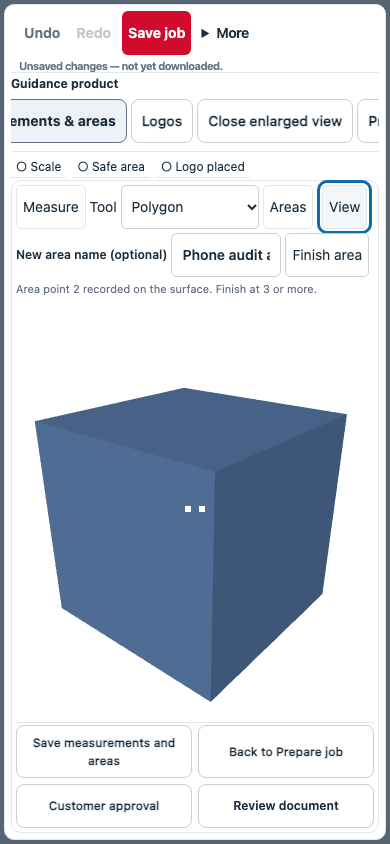
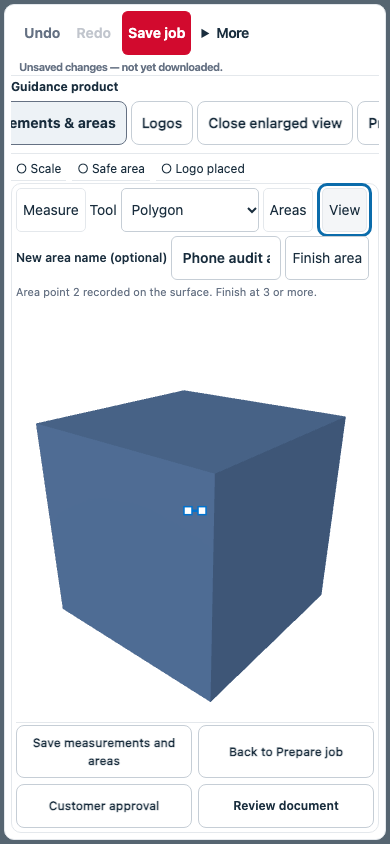
Fix Windows persistence status line-height clipping

diff --git a/src/ui/internal-builder/template.html b/src/ui/internal-builder/template.html
@@ -833,7 +833,7 @@
     .station-header .builder-modes button:disabled { opacity:.4;cursor:default; }
     .station-header [data-builder-hook="job-save"] { border:1px solid var(--red);border-radius:6px;background:#fff;color:var(--red);padding:8px 12px; }
     .station-header [data-builder-hook="job-save"].is-dirty { background:var(--red);color:#fff; }
-    .station-header .job-persistence { flex:1 1 140px;font-size:11px;max-width:240px; }
+    .station-header .job-persistence { flex:1 1 140px;font-size:11px;line-height:16px;max-width:240px; }
     .station-header .job-file-menu { position:relative;flex:none; }
     .job-file-menu summary { cursor:pointer;padding:10px 4px;font-size:14px; }
     .job-file-menu[open] > .job-file-menu-body { position:absolute;right:0;top:100%;z-index:1050;width:200px;background:#fff;border:1px solid var(--line);box-shadow:0 4px 12px #192d3d26; }
@@ -881,7 +881,7 @@
     }
     .product-editor .model-setup-author-actions { display:flex;flex-wrap:wrap;align-items:center;gap:4px;min-width:0; }
     @media(max-width:700px) {
-      .product-editor .editor-checklist { margin-bottom:2px; }
+      .product-editor .editor-checklist { margin-bottom:0; }
       .product-editor .product-model-footer .product-setup-actions {
         display:grid;grid-template-columns:repeat(2,minmax(0,1fr));align-items:stretch;
       }

diff --git a/docs/windows-triage-2026-11-15.md b/docs/windows-triage-2026-11-15.md
@@ -62,9 +62,11 @@ inspection. A software-renderer cause remains unconfirmed.
 
 Three Windows persistence-status tests fail their readable-bounds predicate at
 1440, 768 and 390 px. The predicate checks both viewport bounds and scroll size.
-It needs measured rectangles and client/scroll sizes to distinguish font metrics,
-wrapping, fractional-pixel rounding and real clipping. The original assertions
-remain active.
+The added diagnostics in run `43756262557` record a 13.1875 px line box,
+clientHeight 13 and scrollHeight 14 in all three Edge cases. The computed font
+is 11 px Segoe UI fallback with a 13.2 px line height. The header persistence
+status now uses an integral 16 px line height. Phone checklist spacing preserves
+the canvas floor. The original assertions remain active.
 
 Entry helpers use `pathToFileURL(resolve(...))`, including copied customer and
 station entry points. The hosted Windows offline preflights pass with zero page
@@ -101,3 +103,19 @@ disabled. A local smoke case verified the trace event/snapshot streams and zero
 screencast frames. Renderer records identify SwiftShader on hosted Windows.
 A retained import-readiness trace also contains ReadPixels GPU-stall warnings.
 Those observations leave the underlying timeout cause unresolved.
+
+
+## Completed untraced cohort on `f526aa9`
+
+Run `43756262557` completes all 286 cases per browser with no skips or retries.
+Linux reports 272 passes and 14 failures. Windows Chrome and Edge each report
+230 passes and 56 failures. All nine new customer persistence cases and the canvas
+regression pass in each browser. The exact golden-JSON round trip passes in both
+Windows browsers, confirming the LF fix. All five summary steps succeed.
+
+The three persistence-status cases fail in both Windows browsers with the measured
+line-height shortfall described above. An explicit 16 px line height addresses
+that font-metrics defect while the readability predicate remains intact. Local
+acceptance after this change has 25 Chromium passes and 24 Chrome passes, with
+one Chrome browser closure during phone-audit teardown. That case passes a
+separate one-worker, zero-retry recheck. A final hosted run verifies the font fix.

diff --git a/docs/offline-testing.md b/docs/offline-testing.md
@@ -1911,3 +1911,14 @@ asserted. A phone layout attachment records the toolbar and footer rectangles.
 
 The final 14-case staff layout selection passes in installed Chrome with one
 worker and zero retries after the phone-footer refinement.
+
+
+The completed untraced cohort `43756262557` on `f526aa9` runs all 286 cases in
+each browser, with zero skips and retries. Linux has 272 passes / 14 failures,
+Windows Chrome 230 / 56 and Windows Edge 230 / 56. All ten newly added customer
+persistence/canvas cases pass in all three browsers. Both Windows golden-JSON
+round trips pass. Windows font diagnostics identify a 13 px client height versus
+14 px scroll height in the 11 px persistence status. Its line height is now an
+explicit 16 px. After this refinement, the 50-case local layout/persistence cohort
+has 49 passes and one Chrome teardown closure, followed by a passing one-case
+recheck. The final hosted font verification is reported on the PR.

diff --git a/docs/validation/2026-11-15-customer-canvas/README.md b/docs/validation/2026-11-15-customer-canvas/README.md
@@ -31,3 +31,9 @@ PR. Actual operator-machine and unaided staff/customer trials remain pending.
 
 The final 14-case staff layout selection passes in installed Chrome with one
 worker and zero retries after the phone-footer refinement.
+
+The final line-height refinement passes 25 Chromium and 24 Chrome cases, with
+one Chrome browser closure during phone-audit teardown. The affected case passes
+a separate one-worker, zero-retry recheck. The full untraced hosted cohort on
+`f526aa9` passes all ten new customer persistence/canvas cases in all three
+browsers. Full totals and the subsequent font fix are recorded on the PR.
